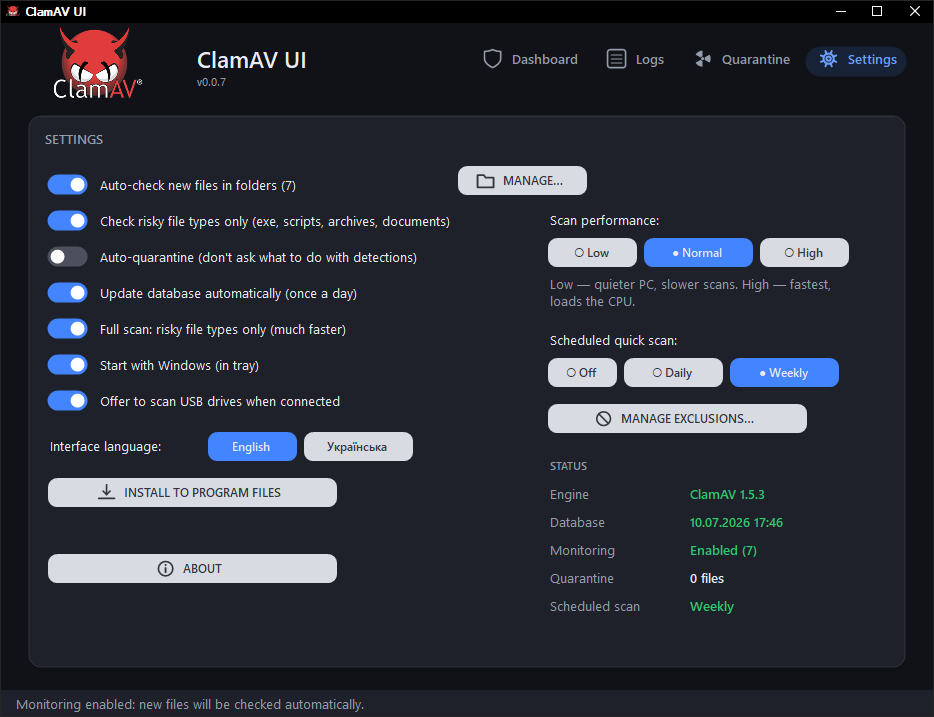
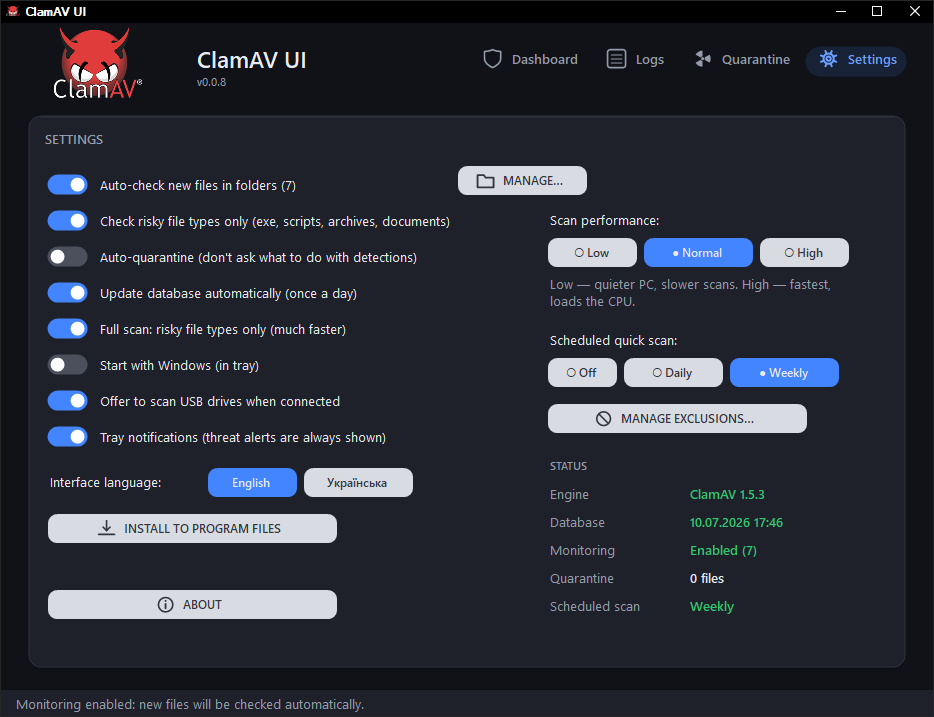
Add notifications toggle for tray alerts and refactor balloon tip handling

Changed region(s): [[0.031, 0.583, 0.4657, 0.8898], [0.031, 0.4909, 0.0931, 0.5216]]

diff --git a/src/MainForm.Ui.cs b/src/MainForm.Ui.cs
@@ -881,21 +881,26 @@ namespace ClamAVUI
             chkUsbPrompt.Checked = true;
             chkUsbPrompt.CheckedChanged += delegate { SaveSettings(); };
 
+            // informational tray balloons; threat alerts bypass this (see Notify)
+            chkNotify = MakeCheck(Lang.T("settings.notifications"), 20, 308);
+            chkNotify.Checked = true;
+            chkNotify.CheckedChanged += delegate { SaveSettings(); };
+
             langLabel = new Label();
             langLabel.Text = Lang.T("settings.language");
             langLabel.AutoSize = true;
             langLabel.ForeColor = Theme.Text;
             langLabel.BackColor = Theme.Card;
-            langLabel.Location = new Point(20, 322);
+            langLabel.Location = new Point(20, 358);
             btnLangEn = MakeButton("English", 90, Theme.Btn, Theme.BtnHot);
             btnLangEn.TextColor = Theme.BtnText;
             btnLangEn.BackColor = Theme.Card;
-            btnLangEn.SetBounds(180, 316, 90, 30);
+            btnLangEn.SetBounds(180, 352, 90, 30);
             btnLangEn.Click += delegate { SetLanguage(Lang.Language.English); };
             btnLangUk = MakeButton("Українська", 110, Theme.Btn, Theme.BtnHot);
             btnLangUk.TextColor = Theme.BtnText;
             btnLangUk.BackColor = Theme.Card;
-            btnLangUk.SetBounds(276, 316, 110, 30);
+            btnLangUk.SetBounds(276, 352, 110, 30);
             btnLangUk.Click += delegate { SetLanguage(Lang.Language.Ukrainian); };
             UpdateLangButtons();
 
@@ -982,7 +987,7 @@ namespace ClamAVUI
 
             btnInstall = MakeLightButton(Lang.T("btn.installPF"), Ico.Download);
             btnInstall.BackColor = Theme.Card;
-            btnInstall.SetBounds(20, 362, 290, 30);
+            btnInstall.SetBounds(20, 398, 290, 30);
             btnInstall.Visible = !IsInstalled;
             btnInstall.Click += delegate
             {
@@ -999,7 +1004,7 @@ namespace ClamAVUI
             installedBadge.ForeColor = Theme.Good;
             installedBadge.BackColor = Theme.Card;
             installedBadge.AutoSize = true;
-            installedBadge.Location = new Point(20, 368);
+            installedBadge.Location = new Point(20, 404);
             installedBadge.Visible = IsInstalled;
             cardSettingsPanel.Controls.Add(installedBadge);
 
@@ -1007,7 +1012,7 @@ namespace ClamAVUI
             // (via this button, or automatically after --install elevates and fixes it).
             btnFixWinTemp = MakeLightButton(Lang.T("btn.fixWinTemp"), Ico.Unlock);
             btnFixWinTemp.BackColor = Theme.Card;
-            btnFixWinTemp.SetBounds(20, 400, 290, 30);
+            btnFixWinTemp.SetBounds(20, 436, 290, 30);
             btnFixWinTemp.Visible = !CanWatchDirectory(
                 Path.Combine(Environment.GetFolderPath(Environment.SpecialFolder.Windows), "Temp"));
             btnFixWinTemp.Click += delegate { FixWinTempAccess(); };
@@ -1015,7 +1020,7 @@ namespace ClamAVUI
             // About: description, quick-start steps, and project links (star / releases / follow)
             btnAbout = MakeLightButton(Lang.T("btn.about"), Ico.Info);
             btnAbout.BackColor = Theme.Card;
-            btnAbout.SetBounds(20, 438, 290, 30);
+            btnAbout.SetBounds(20, 474, 290, 30);
             btnAbout.Click += delegate { ShowAboutDialog(); };
 
             cardSettingsPanel.Controls.Add(chkMonitor);
@@ -1026,6 +1031,7 @@ namespace ClamAVUI
             cardSettingsPanel.Controls.Add(chkFullRisky);
             cardSettingsPanel.Controls.Add(chkAutostart);
             cardSettingsPanel.Controls.Add(chkUsbPrompt);
+            cardSettingsPanel.Controls.Add(chkNotify);
             cardSettingsPanel.Controls.Add(langLabel);
             cardSettingsPanel.Controls.Add(btnLangEn);
             cardSettingsPanel.Controls.Add(btnLangUk);
@@ -1435,6 +1441,7 @@ namespace ClamAVUI
             chkFullRisky.Text = Lang.T("settings.fullRisky");
             chkAutostart.Text = Lang.T("settings.autostart");
             chkUsbPrompt.Text = Lang.T("settings.usbPrompt");
+            chkNotify.Text = Lang.T("settings.notifications");
             UpdateMonitorLabel();
             langLabel.Text = Lang.T("settings.language");
             UpdateLangButtons();
@@ -1464,6 +1471,15 @@ namespace ClamAVUI
             if (m.Msg == WmShow && WmShow != 0) RestoreFromTray();
             if (m.Msg == WM_DEVICECHANGE) HandleDeviceChange(ref m); // USB drive plugged in
             base.WndProc(ref m);
+        }
+
+        // Informational tray balloon, gated by the notifications toggle. Threat
+        // alerts don't go through here — they call tray.ShowBalloonTip directly
+        // and are always shown.
+        void Notify(int ms, string text, ToolTipIcon icon)
+        {
+            if (chkNotify != null && !chkNotify.Checked) return;
+            tray.ShowBalloonTip(ms, AppName, text, icon);
         }
 
         void RestoreFromTray()

diff --git a/src/MainForm.Scan.cs b/src/MainForm.Scan.cs
@@ -236,8 +236,7 @@ namespace ClamAVUI
                         }
                         if (chkAutoUpdate.Checked)
                         {
-                            tray.ShowBalloonTip(5000, AppName,
-                                Lang.T("tray.dbUpdateDownloading"), ToolTipIcon.Info);
+                            Notify(5000, Lang.T("tray.dbUpdateDownloading"), ToolTipIcon.Info);
                             AppendLog(string.Format(Lang.T("log.dbNewerAutoDownload"), DateTime.Now), Theme.Muted);
                             RunFreshclam(true);
                         }
@@ -245,8 +244,7 @@ namespace ClamAVUI
                         {
                             heroSub.Text = Lang.T("hero.dbUpdateAvailable");
                             statusLabel.Text = Lang.T("status.dbUpdateAvailablePress");
-                            tray.ShowBalloonTip(5000, AppName,
-                                Lang.T("tray.dbUpdateAvailablePress"), ToolTipIcon.Info);
+                            Notify(5000, Lang.T("tray.dbUpdateAvailablePress"), ToolTipIcon.Info);
                         }
                     });
                 }
@@ -274,7 +272,7 @@ namespace ClamAVUI
             lastScheduledScan = DateTime.Now;
             SaveSettings();
             AppendLog(Lang.T("log.scheduledScanStart"), Theme.Muted);
-            tray.ShowBalloonTip(4000, AppName, Lang.T("tray.scheduledScan"), ToolTipIcon.Info);
+            Notify(4000, Lang.T("tray.scheduledScan"), ToolTipIcon.Info);
         }
 
         // Pure due-time rule (unit-tested). mode: 0 = off, 1 = daily, 2 = weekly.
@@ -976,13 +974,12 @@ namespace ClamAVUI
                 if (wasMonitor)
                 {
                     AppendLog(Lang.T("log.newFilesClean"), Theme.Good);
-                    tray.ShowBalloonTip(4000, AppName,
-                        string.Format(Lang.T("tray.newFilesClean"), scannedCount), ToolTipIcon.Info);
+                    Notify(4000, string.Format(Lang.T("tray.newFilesClean"), scannedCount), ToolTipIcon.Info);
                 }
                 else
                 {
                     AppendLog(Lang.T("log.noThreatsFound"), Theme.Good);
-                    tray.ShowBalloonTip(4000, AppName, Lang.T("tray.scanDoneClean"), ToolTipIcon.Info);
+                    Notify(4000, Lang.T("tray.scanDoneClean"), ToolTipIcon.Info);
                 }
             }
             else if (exitCode == 1)

diff --git a/src/MainForm.Settings.cs b/src/MainForm.Settings.cs
@@ -169,7 +169,7 @@ namespace ClamAVUI
 
             loadingSettings = true;
             bool monitor = false, quarantine = false, autoUpdate = true, riskyOnly = true, fullRisky = true;
-            bool usbPrompt = true, logDetails = false;
+            bool usbPrompt = true, logDetails = false, notify = true;
             bool hadSettings = File.Exists(settingsPath), modeAskedSeen = false;
             if (hadSettings)
             {
@@ -193,6 +193,7 @@ namespace ClamAVUI
                     else if (t == "fullrisky=0") fullRisky = false;
                     else if (t == "usbprompt=0") usbPrompt = false;
                     else if (t == "logdetails=1") logDetails = true;
+                    else if (t == "notify=0") notify = false;
                     else if (t == "perf=low") perfMode = 0;
                     else if (t == "perf=high") perfMode = 2;
                     else if (t == "sched=off") schedMode = 0;
@@ -285,6 +286,7 @@ namespace ClamAVUI
             chkFullRisky.Checked = fullRisky;
             chkUsbPrompt.Checked = usbPrompt;
             chkLogDetails.Checked = logDetails;
+            chkNotify.Checked = notify;
             UpdatePerfButtons();  // reflect the loaded perf mode
             UpdateSchedButtons(); // reflect the loaded schedule
             chkMonitor.Checked = monitor; // CheckedChanged will start the watchers itself
@@ -339,6 +341,7 @@ namespace ClamAVUI
             sb.AppendLine("fullrisky=" + (chkFullRisky.Checked ? "1" : "0"));
             sb.AppendLine("usbprompt=" + (chkUsbPrompt.Checked ? "1" : "0"));
             sb.AppendLine("logdetails=" + (chkLogDetails.Checked ? "1" : "0"));
+            sb.AppendLine("notify=" + (chkNotify.Checked ? "1" : "0"));
             sb.AppendLine("perf=" + (perfMode == 0 ? "low" : perfMode == 2 ? "high" : "normal"));
             sb.AppendLine("sched=" + (schedMode == 0 ? "off" : schedMode == 1 ? "daily" : "weekly"));
             sb.AppendLine("lastsched=" + lastScheduledScan.Ticks);

diff --git a/src/MainForm.Updates.cs b/src/MainForm.Updates.cs
@@ -104,8 +104,7 @@ namespace ClamAVUI
         {
             try
             {
-                tray.ShowBalloonTip(4000, AppName,
-                    string.Format(Lang.T("tray.appUpdateInstalling"), version), ToolTipIcon.Info);
+                Notify(4000, string.Format(Lang.T("tray.appUpdateInstalling"), version), ToolTipIcon.Info);
             }
             catch { }
             string exePath = Application.ExecutablePath;

diff --git a/src/MainForm.Usb.cs b/src/MainForm.Usb.cs
@@ -65,8 +65,7 @@ namespace ClamAVUI
             catch { return; }
             if (scanRunning || updateRunning)
             {
-                tray.ShowBalloonTip(6000, AppName,
-                    string.Format(Lang.T("tray.usbBusy"), root), ToolTipIcon.Info);
+                Notify(6000, string.Format(Lang.T("tray.usbBusy"), root), ToolTipIcon.Info);
                 return;
             }
             // Invisible topmost owner: the prompt must surface above other windows

diff --git a/src/Lang.cs b/src/Lang.cs
@@ -138,6 +138,7 @@ namespace ClamAVUI
             A("settings.autostart", "Start with Windows (in tray)", "Запускати разом з Windows (у треї)");
             A("settings.language", "Interface language:", "Мова інтерфейсу:");
             A("settings.usbPrompt", "Offer to scan USB drives when connected", "Пропонувати перевірку USB-накопичувачів при підключенні");
+            A("settings.notifications", "Tray notifications (threat alerts are always shown)", "Сповіщення в треї (про знайдені загрози — завжди)");
             A("settings.status", "Status", "Стан");
             A("sstat.engine", "Engine", "Рушій");
             A("sstat.database", "Database", "Бази");

diff --git a/src/MainForm.cs b/src/MainForm.cs
@@ -115,6 +115,7 @@ namespace ClamAVUI
         Label statusLabel, heroTitle, heroSub, langLabel, lastActivityLabel, scanProgressLabel;
         ShieldIndicator shield;
         Toggle chkAutostart, chkMonitor, chkQuarantine, chkAutoUpdate, chkRiskyOnly, chkFullRisky, chkUsbPrompt, chkLogDetails;
+        Toggle chkNotify; // tray notifications; threat alerts are shown regardless (see Notify)
         SlimMarquee progress;
         NotifyIcon tray;
         ToolStripItem trayOpenItem, trayExitItem;

diff --git a/README.md b/README.md
@@ -98,6 +98,9 @@ anytime from Settings — no restart required.
   brings the running instance forward instead (mutex + broadcast message)
 - Tray icon: the close button minimizes to tray, with notifications for
   scan results
+- **Notifications toggle** (Settings): informational tray balloons (scan
+  finished clean, database update available, USB drive busy, self-update…)
+  can be switched off — **threat alerts are always shown** regardless
 - Modern dark theme with icon buttons (custom-drawn vector glyphs, no image
   assets or third-party UI libraries)
 - **Daily database version checks** instead of hammering the server every